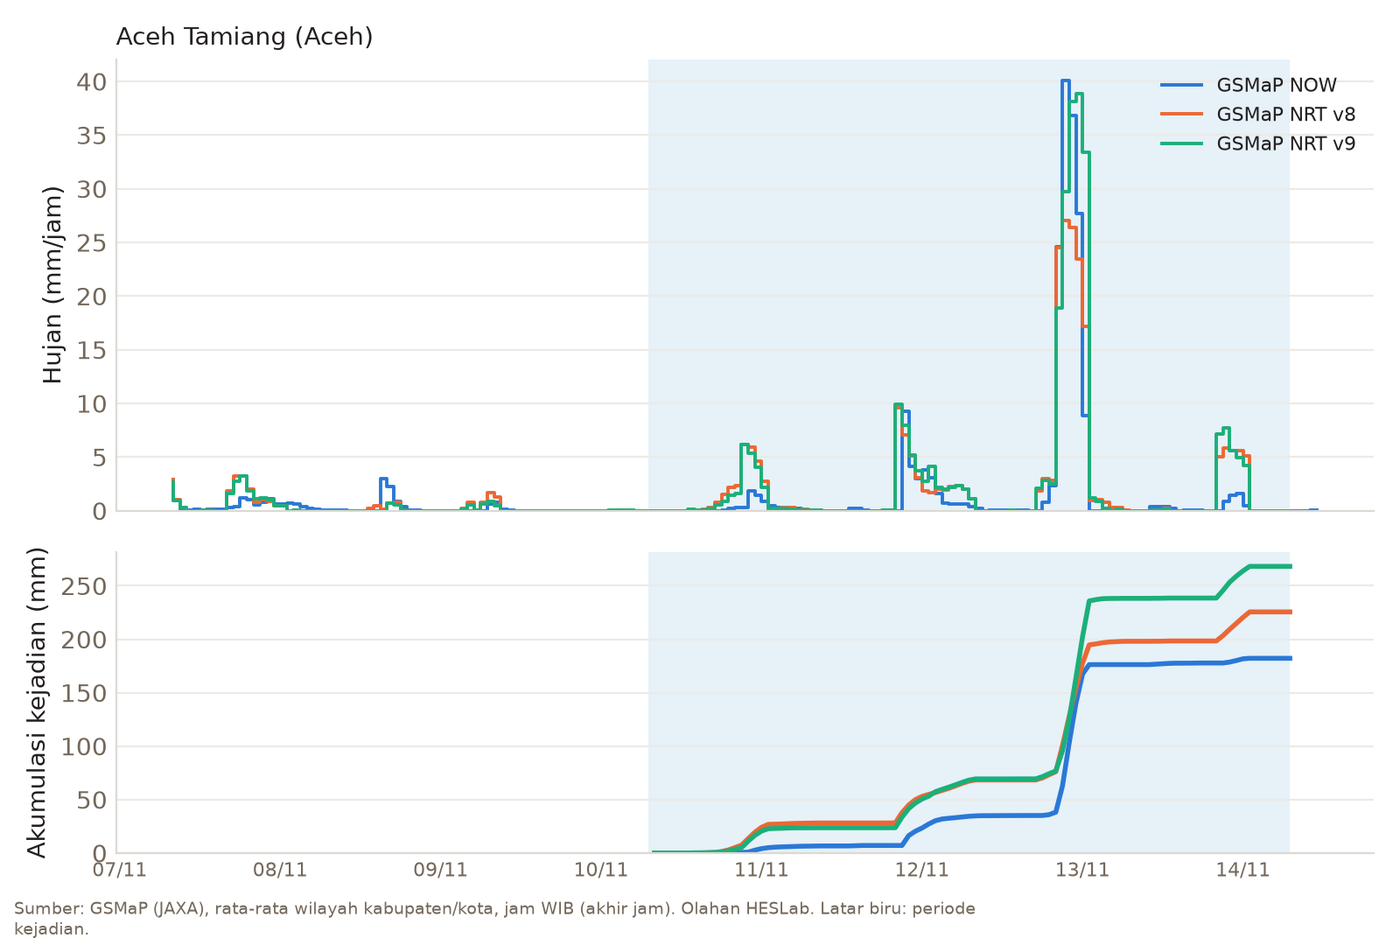
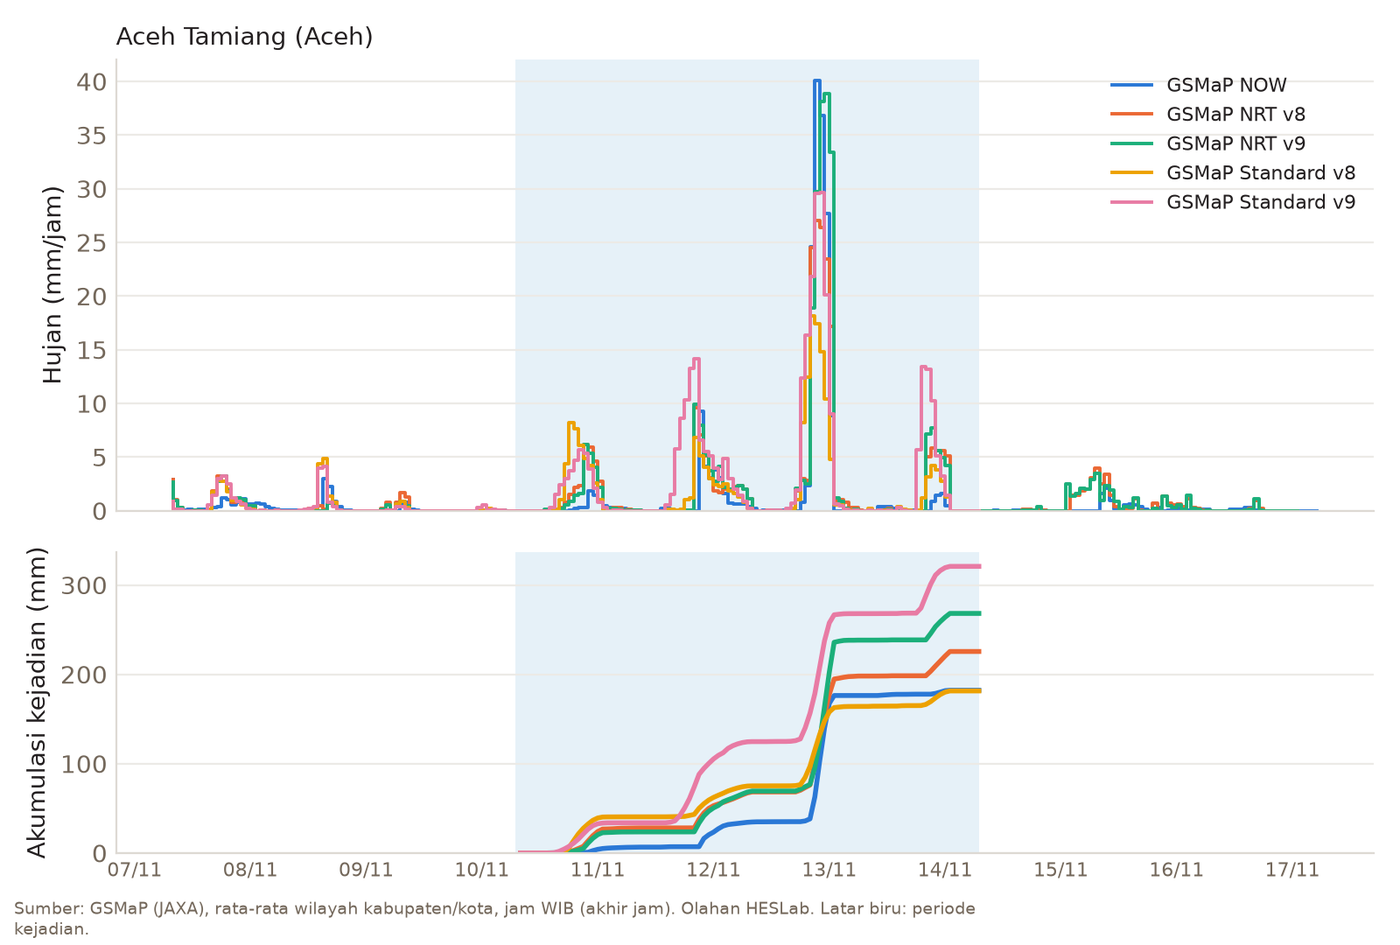
Perbarui isi situs 2026-11-17 07:00

diff --git a/artikel/banjir-aceh-tamiang-november-2026/index.html b/artikel/banjir-aceh-tamiang-november-2026/index.html
@@ -4,13 +4,13 @@
 <meta charset="utf-8">
 <meta name="viewport" content="width=device-width, initial-scale=1">
 <title>Banjir Aceh Tamiang 13 November 2026: hujan satu malam menurut satelit · HESLab</title>
-<meta name="description" content="Hujan terlebat turun malam 12 November, sekitar 130 sampai 170 mm sehari menurut GSMaP NOW, NRT v8, dan NRT v9. Sejak 2015, hujan sehari ini terbesar kedua setelah banjir November 2025 menurut NRT v8.">
+<meta name="description" content="Hujan terlebat turun malam 12 November. Lima produk GSMaP sepakat soal waktunya, tetapi hujan sehari di Aceh Tamiang berkisar 89 sampai 170 mm. Sejak 2015, hujan ini terbesar kedua menurut NRT v8, tetapi biasa saja menurut Standard v8.">
 <link rel="canonical" href="https://heslab-uper.com/artikel/banjir-aceh-tamiang-november-2026/">
 <meta name="robots" content="max-image-preview:large">
 <meta property="og:type" content="article">
 <meta property="og:site_name" content="HESLab · Hydro-Environmental System Lab">
 <meta property="og:title" content="Banjir Aceh Tamiang 13 November 2026: hujan satu malam menurut satelit · HESLab">
-<meta property="og:description" content="Hujan terlebat turun malam 12 November, sekitar 130 sampai 170 mm sehari menurut GSMaP NOW, NRT v8, dan NRT v9. Sejak 2015, hujan sehari ini terbesar kedua setelah banjir November 2025 menurut NRT v8.">
+<meta property="og:description" content="Hujan terlebat turun malam 12 November. Lima produk GSMaP sepakat soal waktunya, tetapi hujan sehari di Aceh Tamiang berkisar 89 sampai 170 mm. Sejak 2015, hujan ini terbesar kedua menurut NRT v8, tetapi biasa saja menurut Standard v8.">
 <meta property="og:url" content="https://heslab-uper.com/artikel/banjir-aceh-tamiang-november-2026/">
 <meta property="og:image" content="https://heslab-uper.com/media/artikel/banjir-aceh-tamiang-november-2026/hujan-harian-tamiang-sekitar.png">
 <meta property="og:locale" content="id_ID">
@@ -38,7 +38,7 @@
   "name": "Nurul Fajar Januriyadi",
   "url": "https://heslab-uper.com/tentang/#anggota"
  },
- "description": "Hujan terlebat turun malam 12 November, sekitar 130 sampai 170 mm sehari menurut GSMaP NOW, NRT v8, dan NRT v9. Sejak 2015, hujan sehari ini terbesar kedua setelah banjir November 2025 menurut NRT v8.",
+ "description": "Hujan terlebat turun malam 12 November. Lima produk GSMaP sepakat soal waktunya, tetapi hujan sehari di Aceh Tamiang berkisar 89 sampai 170 mm. Sejak 2015, hujan ini terbesar kedua menurut NRT v8, tetapi biasa saja menurut Standard v8.",
  "image": [
   "https://heslab-uper.com/media/artikel/banjir-aceh-tamiang-november-2026/hujan-harian-tamiang-sekitar.png"
  ],
@@ -89,15 +89,16 @@ gtag('config', 'G-Z0TXGDFW5L');
 <h1>Banjir Aceh Tamiang 13 November 2026: hujan satu malam menurut satelit</h1>
 <div class="artikel-meta">2026-11-14 · Nurul Fajar Januriyadi</div>
 <p class="artikel-topik-baris"><a class="badge artikel-topik" href="../index.html#topik=banjir">Kejadian banjir</a></p>
-<p class="lead">Hujan terlebat turun malam 12 November, sekitar 130 sampai 170 mm sehari menurut GSMaP NOW, NRT v8, dan NRT v9. Sejak 2015, hujan sehari ini terbesar kedua setelah banjir November 2025 menurut NRT v8.</p>
+<p class="lead">Hujan terlebat turun malam 12 November. Lima produk GSMaP sepakat soal waktunya, tetapi hujan sehari di Aceh Tamiang berkisar 89 sampai 170 mm. Sejak 2015, hujan ini terbesar kedua menurut NRT v8, tetapi biasa saja menurut Standard v8.</p>
 <article class="artikel-isi">
 <p>Satu tahun setelah banjir besar November 2025, Aceh Tamiang kembali terendam.
 Sejak Kamis 12 November 2026, Sungai Tamiang meluap ke permukiman, dan pada
 Jumat 13 November air masih setinggi sekitar satu meter di beberapa titik
-Kota Kuala Simpang. Tulisan ini melihat hujan yang mendahuluinya dari tiga
-produk satelit GSMaP yang terbit cepat (NOW, NRT v8, dan NRT v9), untuk Aceh
-Tamiang dan lima kabupaten/kota di sekitarnya.</p>
-<figure><img alt="Hujan harian Aceh Tamiang 11 sampai 14 November 2026 dan hujan hari laporan 13 November di enam kabupaten/kota, menurut tiga produk GSMaP." loading="lazy" src="../../media/artikel/banjir-aceh-tamiang-november-2026/hujan-harian-tamiang-sekitar.png" /><figcaption>Hujan harian Aceh Tamiang 11 sampai 14 November 2026 dan hujan hari laporan 13 November di enam kabupaten/kota, menurut tiga produk GSMaP.</figcaption></figure>
+Kota Kuala Simpang. Tulisan ini melihat hujan yang mendahuluinya dari lima
+produk satelit GSMaP, untuk Aceh Tamiang dan lima kabupaten/kota di
+sekitarnya: tiga yang terbit cepat (NOW, NRT v8, dan NRT v9) dan dua versi
+Standard (v8 dan v9) yang terbit beberapa hari kemudian.</p>
+<figure><img alt="Hujan harian Aceh Tamiang 11 sampai 14 November 2026 dan hujan hari laporan 13 November di enam kabupaten/kota, menurut tiga produk GSMaP yang terbit cepat." loading="lazy" src="../../media/artikel/banjir-aceh-tamiang-november-2026/hujan-harian-tamiang-sekitar.png" /><figcaption>Hujan harian Aceh Tamiang 11 sampai 14 November 2026 dan hujan hari laporan 13 November di enam kabupaten/kota, menurut tiga produk GSMaP yang terbit cepat.</figcaption></figure>
 <h2>Apa yang tercatat di lapangan</h2>
 <p>Data BPBD Aceh Tamiang mencatat 11 desa terendam di empat kecamatan: Kota
 Kuala Simpang, Bandar Pusaka, Tenggulun, dan Bendahara. Desa Perdamaian di
@@ -123,7 +124,7 @@ lebat beberapa hari
 Angka itu milik Langkat, bukan Aceh Tamiang. Beberapa pemberitaan
 menggabungkan keduanya.</p>
 <h2>Apa kata satelit</h2>
-<p>Hujan dari tiga produk GSMaP dirata-ratakan per kabupaten/kota. Satu hari
+<p>Hujan dari lima produk GSMaP dirata-ratakan per kabupaten/kota. Satu hari
 laporan adalah pukul 08.00 WIB hari sebelumnya sampai 07.00 WIB tanggal itu,
 sama seperti di HESLab Portal. Periode kejadian yang dihitung adalah 10
 November pukul 08.00 sampai 14 November pukul 07.00 WIB.</p>
@@ -135,6 +136,8 @@ November pukul 08.00 sampai 14 November pukul 07.00 WIB.</p>
 <th>GSMaP NOW</th>
 <th>GSMaP NRT v8</th>
 <th>GSMaP NRT v9</th>
+<th>GSMaP Standard v8</th>
+<th>GSMaP Standard v9</th>
 </tr>
 </thead>
 <tbody>
@@ -143,45 +146,61 @@ November pukul 08.00 sampai 14 November pukul 07.00 WIB.</p>
 <td>6 mm</td>
 <td>28 mm</td>
 <td>24 mm</td>
+<td>40 mm</td>
+<td>34 mm</td>
 </tr>
 <tr>
 <td>12 November</td>
 <td>28 mm</td>
 <td>39 mm</td>
 <td>45 mm</td>
+<td>34 mm</td>
+<td>91 mm</td>
 </tr>
 <tr>
 <td>13 November</td>
 <td>142 mm</td>
 <td>131 mm</td>
 <td>170 mm</td>
+<td>89 mm</td>
+<td>143 mm</td>
 </tr>
 <tr>
 <td>14 November</td>
 <td>6 mm</td>
 <td>27 mm</td>
 <td>30 mm</td>
+<td>17 mm</td>
+<td>53 mm</td>
 </tr>
 <tr>
 <td>Total kejadian</td>
 <td>182 mm</td>
 <td>226 mm</td>
 <td>268 mm</td>
+<td>181 mm</td>
+<td>321 mm</td>
 </tr>
 </tbody>
 </table></div>
-<p>Ketiga produk sepakat soal waktunya. Hujan ringan sampai sedang turun pada
+<p>Kelima produk sepakat soal waktunya. Hujan ringan sampai sedang turun pada
 11 dan 12 November, lalu hujan terlebat datang pada malam 12 November, dari
 sekitar pukul 20.00 sampai 01.00 WIB. Dalam satu jam terderas, rata-rata
-seluruh kabupaten mencapai 40 mm (NOW), 27 mm (NRT v8), dan 39 mm (NRT v9).
-Dalam tiga jam terderas, angkanya 105 mm, 78 mm, dan 110 mm. Hari laporan
-13 November saja menyumbang 58 sampai 78 % dari total kejadian. Waktu ini
-sejalan dengan berita: warga menaikkan barang pada malam hari, dan pada Jumat
-air masih menggenangi permukiman.</p>
-<figure><img alt="Hujan per jam dan akumulasi kejadian di Aceh Tamiang menurut tiga produk GSMaP." loading="lazy" src="../../media/artikel/banjir-aceh-tamiang-november-2026/hujan-kab_007.png" /><figcaption>Hujan per jam dan akumulasi kejadian di Aceh Tamiang menurut tiga produk GSMaP.</figcaption></figure>
-<p>Jumlah totalnya berbeda. NRT v9 mencatat yang terbesar (268 mm), NOW yang
-terkecil (182 mm). NOW hampir tidak menangkap hujan ringan pada 11 dan 14
-November, tetapi justru setara dengan dua produk lain pada jam-jam puncak.</p>
+seluruh kabupaten mencapai 40 mm (NOW), 27 mm (NRT v8), 39 mm (NRT v9),
+18 mm (Standard v8), dan 30 mm (Standard v9). Dalam tiga jam terderas,
+angkanya 105 mm, 78 mm, 110 mm, 50 mm, dan 81 mm. Hari laporan 13 November
+saja menyumbang 45 sampai 78 % dari total kejadian. Waktu ini sejalan dengan
+berita: warga menaikkan barang pada malam hari, dan pada Jumat air masih
+menggenangi permukiman.</p>
+<figure><img alt="Hujan per jam dan akumulasi kejadian di Aceh Tamiang menurut lima produk GSMaP." loading="lazy" src="../../media/artikel/banjir-aceh-tamiang-november-2026/hujan-kab_007.png" /><figcaption>Hujan per jam dan akumulasi kejadian di Aceh Tamiang menurut lima produk GSMaP.</figcaption></figure>
+<p>Jumlahnya yang berbeda, dan selisihnya besar. Untuk hari laporan 13 November,
+Standard v8 mencatat yang terkecil (89 mm) dan NRT v9 yang terbesar
+(170 mm). Untuk total kejadian, Standard v9 mencatat yang terbesar (321 mm),
+sedangkan NOW dan Standard v8 yang terkecil (sekitar 181 mm). Kedua versi
+Standard pun tidak sepakat: Standard v9 mencatat hujan 13 November sekitar
+1,6 kali Standard v8, dan juga lebih banyak hujan pada 12 dan 14 November.
+NOW hampir tidak menangkap hujan ringan pada 11 dan 14 November, tetapi
+setara dengan produk lain pada jam-jam puncak.</p>
 <h3>Seberapa jarang?</h3>
 <p>Hujan kejadian ini dibandingkan dengan hujan terbesar tiap tahun sejak 2015
 dalam arsip produk yang sama:</p>
@@ -198,15 +217,21 @@ dalam arsip produk yang sama:</p>
   ini). Di atasnya ada November 2025 (598 mm), Oktober 2021, November 2020,
   dan November 2023. Namun untuk hujan 3 jam, kejadian ini (105 mm) berada di
   <strong>urutan kedua</strong>, tidak jauh di bawah rekor 124 mm pada November 2025.</li>
-<li>NRT v9 baru tersedia sejak Oktober 2026, sehingga belum bisa diberi
-  peringkat.</li>
+<li>Menurut Standard v8, hujan 24 jam kejadian ini (98 mm) berada di urutan
+  ke-9 dari 12 nilai (2015–2025 ditambah kejadian ini), dan hujan 3 jamnya
+  (50 mm) di urutan ke-10. Rekor 24 jamnya juga November 2025, yaitu 499 mm.</li>
+<li>NRT v9 dan Standard v9 baru tersedia sejak Oktober 2026, sehingga belum
+  bisa diberi peringkat.</li>
 </ul>
-<p>Jadi, dalam sepuluh tahun terakhir hujan sehari kali ini termasuk yang
-terbesar, walaupun masih jauh di bawah November 2025. Kedua produk berbeda
-soal peringkat persisnya: NRT v8 menempatkannya kedua untuk hujan 24 jam,
-sedangkan NOW menempatkannya kedua untuk hujan 3 jam. Banjir kali ini juga
-terjadi di sungai dan drainase yang menurut pemberitaan belum pulih dari
-kerusakan setahun lalu.</p>
+<p>Jadi, jawabannya bergantung pada produk. Menurut produk yang terbit cepat,
+hujan kali ini termasuk yang terbesar dalam sepuluh tahun terakhir: NRT v8
+menempatkannya kedua untuk hujan 24 jam, dan NOW menempatkannya kedua untuk
+hujan 3 jam. Menurut Standard v8, hujannya biasa saja untuk ukuran hujan
+terbesar tahunan di Aceh Tamiang. Semua produk sepakat bahwa kejadian ini
+jauh di bawah November 2025. Karena besarnya hujan belum pasti, faktor lain
+patut diperhatikan: banjir kali ini terjadi di sungai dan drainase yang
+menurut pemberitaan belum pulih dari kerusakan setahun lalu, dan warga
+menduga kondisi itu ikut memperparah genangan.</p>
 <h3>Kabupaten di sekitarnya</h3>
 <div class="table-wrap"><table class="data">
 <thead>
@@ -215,6 +240,8 @@ kerusakan setahun lalu.</p>
 <th>GSMaP NOW</th>
 <th>GSMaP NRT v8</th>
 <th>GSMaP NRT v9</th>
+<th>GSMaP Standard v8</th>
+<th>GSMaP Standard v9</th>
 </tr>
 </thead>
 <tbody>
@@ -223,56 +250,71 @@ kerusakan setahun lalu.</p>
 <td>142 mm</td>
 <td>131 mm</td>
 <td>170 mm</td>
+<td>89 mm</td>
+<td>143 mm</td>
 </tr>
 <tr>
 <td>Kota Langsa</td>
 <td>68 mm</td>
 <td>242 mm</td>
 <td>133 mm</td>
+<td>177 mm</td>
+<td>146 mm</td>
 </tr>
 <tr>
 <td>Aceh Timur</td>
 <td>54 mm</td>
 <td>129 mm</td>
 <td>112 mm</td>
+<td>77 mm</td>
+<td>126 mm</td>
 </tr>
 <tr>
 <td>Gayo Lues</td>
 <td>48 mm</td>
 <td>48 mm</td>
 <td>50 mm</td>
+<td>31 mm</td>
+<td>43 mm</td>
 </tr>
 <tr>
 <td>Aceh Tenggara</td>
 <td>18 mm</td>
 <td>35 mm</td>
 <td>41 mm</td>
+<td>27 mm</td>
+<td>32 mm</td>
 </tr>
 <tr>
 <td>Langkat</td>
 <td>11 mm</td>
 <td>26 mm</td>
 <td>28 mm</td>
+<td>18 mm</td>
+<td>27 mm</td>
 </tr>
 </tbody>
 </table></div>
 <p>Peta di bawah memperlihatkan hujan hari itu per piksel satelit (sekitar
-11 × 11 km), bukan rata-rata kabupaten.</p>
+11 × 11 km), bukan rata-rata kabupaten, untuk tiga produk yang terbit cepat.</p>
 <figure><img alt="Peta hujan hari laporan 13 November 2026 per piksel GSMaP NOW, NRT v8, dan NRT v9 di Aceh Tamiang dan sekitarnya." loading="lazy" src="../../media/artikel/banjir-aceh-tamiang-november-2026/peta-hujan-13-november.png" /><figcaption>Peta hujan hari laporan 13 November 2026 per piksel GSMaP NOW, NRT v8, dan NRT v9 di Aceh Tamiang dan sekitarnya.</figcaption></figure>
 <p>Ketiga produk menempatkan inti hujan ekstrem (lebih dari 150 mm sehari) di
 pesisir timur, di perbatasan Aceh Timur, Kota Langsa, dan Aceh Tamiang. Ke
 arah pegunungan (Gayo Lues, Aceh Tenggara), hujannya jauh lebih kecil. Di
-Gayo Lues ketiga produk hampir sama, sekitar 50 mm.</p>
+Gayo Lues ketiga produk cepat hampir sama, sekitar 50 mm; kedua versi
+Standard sedikit lebih kecil (31 dan 43 mm).</p>
 <p>Yang berbeda adalah letak dan luas inti itu. Pada NOW, inti hujan ekstrem
 lebih kecil dan berada lebih ke selatan, tepat di atas Aceh Tamiang. Pada
 NRT v8, inti itu lebih luas dan bergeser ke utara sehingga hampir menutupi
 seluruh Kota Langsa. Karena itu Langsa menunjukkan perbedaan produk paling
 besar: NRT v8 mencatat 242 mm dalam sehari, sedangkan NOW hanya 68 mm, kurang
-dari sepertiganya. Langsa adalah wilayah kecil yang hanya tertutup beberapa
+dari sepertiganya. Kedua versi Standard berada di antaranya (177 dan
+146 mm), jauh di atas NOW. Langsa adalah wilayah kecil yang hanya tertutup beberapa
 piksel, sehingga pergeseran inti hujan sedikit saja sudah mengubah
-rata-ratanya banyak. Aceh Tamiang lebih stabil karena berada di bawah inti
-hujan pada ketiga produk.</p>
-<p>Langkat tampak kecil di tabel (26–28 mm menurut NRT), padahal Besitang
+rata-ratanya banyak. Di antara ketiga produk cepat, Aceh Tamiang lebih
+stabil karena berada di bawah inti hujan pada ketiganya.</p>
+<p>Langkat tampak kecil di tabel (26–28 mm menurut NRT, 18–27 mm menurut
+Standard), padahal Besitang
 banjir. Peta menjelaskan sebagian sebabnya: sebagian besar Langkat hanya
 menerima hujan ringan malam itu, dan hujan lebat hanya mencapai bagian barat
 lautnya yang berbatasan dengan Aceh Tamiang dan Gayo Lues. Hujan itu tertutup
@@ -287,11 +329,14 @@ kemudian. Prinsipnya, makin cepat terbit makin kurang akurat. Versi algoritma
 (v8, v9) juga dapat memberi angka berbeda untuk kejadian yang sama.
 Penjelasan lengkap ada di halaman
 <a href="../../data/hujan-satelit/memilih-produk-gsmap/index.html">Memilih produk GSMaP</a>.</p>
-<p>Pada kejadian ini, ketiga produk sepakat soal <em>kapan</em> hujan terlebat turun,
+<p>Pada kejadian ini, kelima produk sepakat soal <em>kapan</em> hujan terlebat turun,
 dan itu yang paling berguna untuk peringatan dini. Mereka berbeda soal
-<em>berapa banyak</em>, terutama di wilayah kecil seperti Langsa. GSMaP Standard
-untuk tanggal ini terbit sekitar 17 November dan biasanya paling dekat dengan
-pengamatan pos hujan.</p>
+<em>berapa banyak</em>, di Aceh Tamiang sendiri maupun di wilayah kecil seperti
+Langsa. Standard memakai lebih banyak data satelit daripada produk cepat,
+tetapi versi yang dipakai di sini tidak dikoreksi dengan pos hujan. Pada
+kejadian ini kedua versinya bahkan berselisih jauh, sehingga tanpa data pos
+hujan belum bisa dipastikan produk mana yang paling mendekati hujan
+sebenarnya.</p>
 <h2>Batasan</h2>
 <ul>
 <li>Nilai adalah rata-rata wilayah kabupaten/kota dari satelit. Hujan di satu
@@ -301,13 +346,14 @@ pengamatan pos hujan.</p>
   Banjir juga dipengaruhi kondisi tanggul dan drainase, bukan hanya hujan.</li>
 <li>Peringkat hanya membandingkan hujan terbesar tiap tahun dalam arsip produk
   yang sama, tanpa analisis frekuensi, sehingga bukan kala ulang. Dengan
-  pembanding 11 tahun (2015–2025), peringkat kedua belum berarti kejadian
+  pembanding 11 tahun (2015–2025), peringkat tinggi belum berarti kejadian
   langka dalam jangka panjang.</li>
 <li>Pembanding dibatasi mulai 2015. Arsip NRT v8 yang lebih lama memuat lonjakan
   semu, misalnya 131 sampai 138 mm per jam selama tiga jam sebagai rata-rata
   seluruh Aceh Tamiang pada 30–31 Maret 2003, nilai yang tidak wajar untuk
-  wilayah seluas itu. Pada 2015–2025, hujan satu jam terbesar di dalam setiap
-  maksimum tahunan tidak lebih dari 39 mm.</li>
+  wilayah seluas itu. Arsip Standard v8 memuat lonjakan pada tahun yang
+  sama. Pada 2015–2025, hujan satu jam terbesar tiap tahun tidak lebih dari
+  39 mm menurut NRT v8 dan 47 mm menurut Standard v8.</li>
 </ul>
 <h2>Rujukan</h2>
 <ul>
@@ -315,7 +361,7 @@ pengamatan pos hujan.</p>
 <li>ANTARA, 13 November 2026. <a href="https://www.antaranews.com/berita/5852059/bnpb-150-warga-mengungsi-akibat-banjir-40-cm-di-aceh-tamiang" rel="noopener" target="_blank">BNPB: 150 warga mengungsi akibat banjir 40 cm di Aceh Tamiang</a>.</li>
 <li>detikcom, 13 November 2026. <a href="https://news.detik.com/berita/d-8751288/banjir-landa-aceh-tamiang-dan-langkat-ratusan-rumah-terendam" rel="noopener" target="_blank">Banjir landa Aceh Tamiang dan Langkat, ratusan rumah terendam</a>.</li>
 <li>Metro TV, 13 November 2026. <a href="https://www.metrotvnews.com/read/kWDCm7vQ-banjir-susulan-setinggi-1-meter-kembali-rendam-aceh-tamiang" rel="noopener" target="_blank">Banjir susulan setinggi 1 meter kembali rendam Aceh Tamiang</a>.</li>
-<li>JAXA. GSMaP NOW, NRT v8, dan NRT v9, rata-rata per kabupaten/kota diolah HESLab.</li>
+<li>JAXA. GSMaP NOW, NRT v8, NRT v9, Standard v8, dan Standard v9 (tanpa koreksi pos hujan), rata-rata per kabupaten/kota diolah HESLab.</li>
 </ul>
 </article>
 

diff --git a/artikel/index.html b/artikel/index.html
@@ -113,7 +113,7 @@ di aplikasi pembaca RSS (mis. Feedly, Inoreader); artikel baru akan muncul di sa
   <span class="badge artikel-topik">Kejadian banjir</span>
   <h3><a href="banjir-aceh-tamiang-november-2026/index.html">Banjir Aceh Tamiang 13 November 2026: hujan satu malam menurut satelit</a></h3>
   <div class="meta">2026-11-14 · Nurul Fajar Januriyadi</div>
-  <p>Hujan terlebat turun malam 12 November, sekitar 130 sampai 170 mm sehari menurut GSMaP NOW, NRT v8, dan NRT v9. Sejak 2015, hujan sehari ini terbesar kedua setelah banjir November 2025 menurut NRT v8.</p>
+  <p>Hujan terlebat turun malam 12 November. Lima produk GSMaP sepakat soal waktunya, tetapi hujan sehari di Aceh Tamiang berkisar 89 sampai 170 mm. Sejak 2015, hujan ini terbesar kedua menurut NRT v8, tetapi biasa saja menurut Standard v8.</p>
   <a class="doclink" href="banjir-aceh-tamiang-november-2026/index.html">Baca →</a>
 </div>
 
